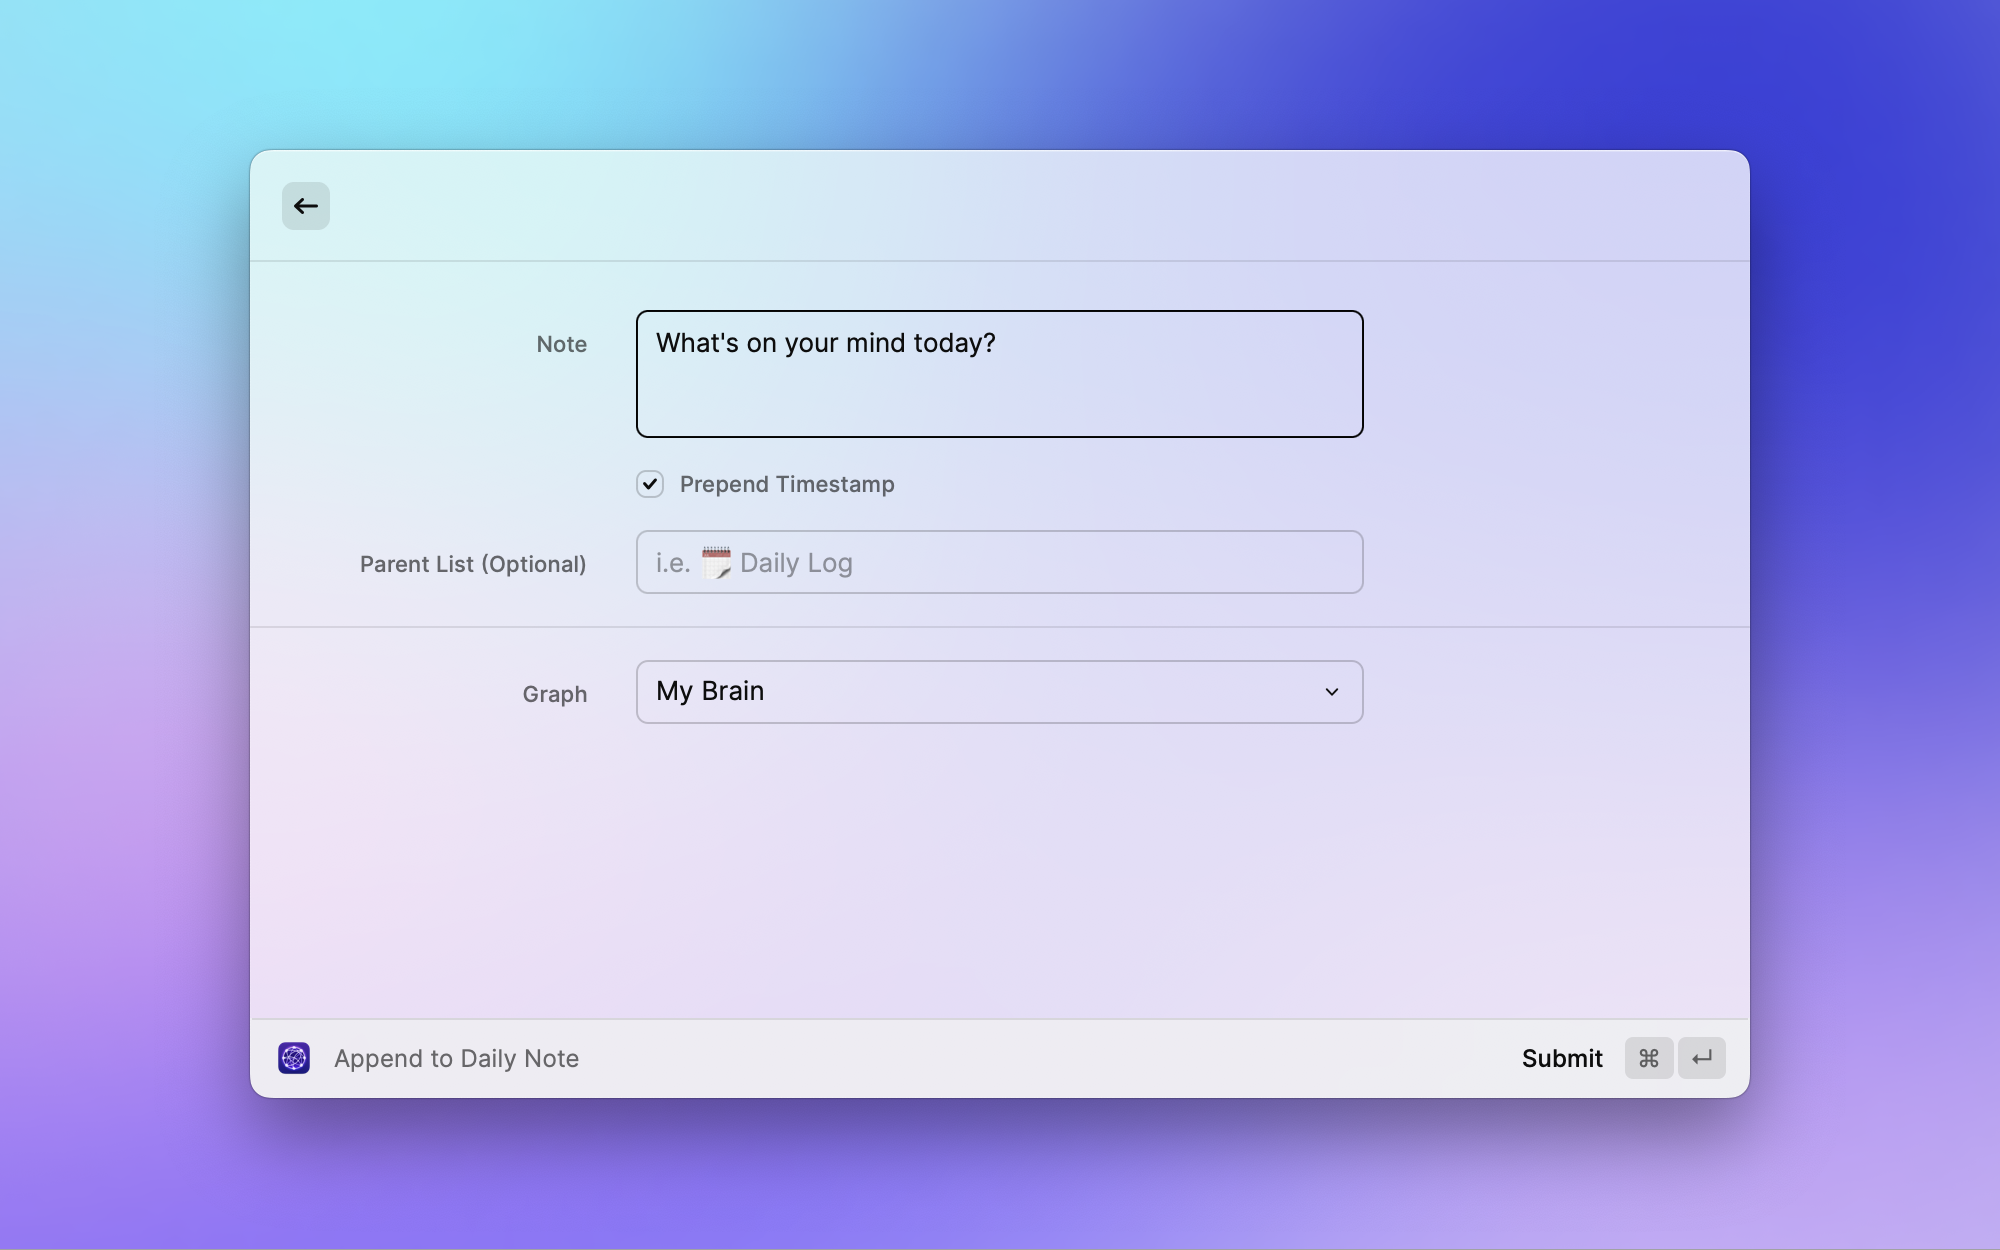
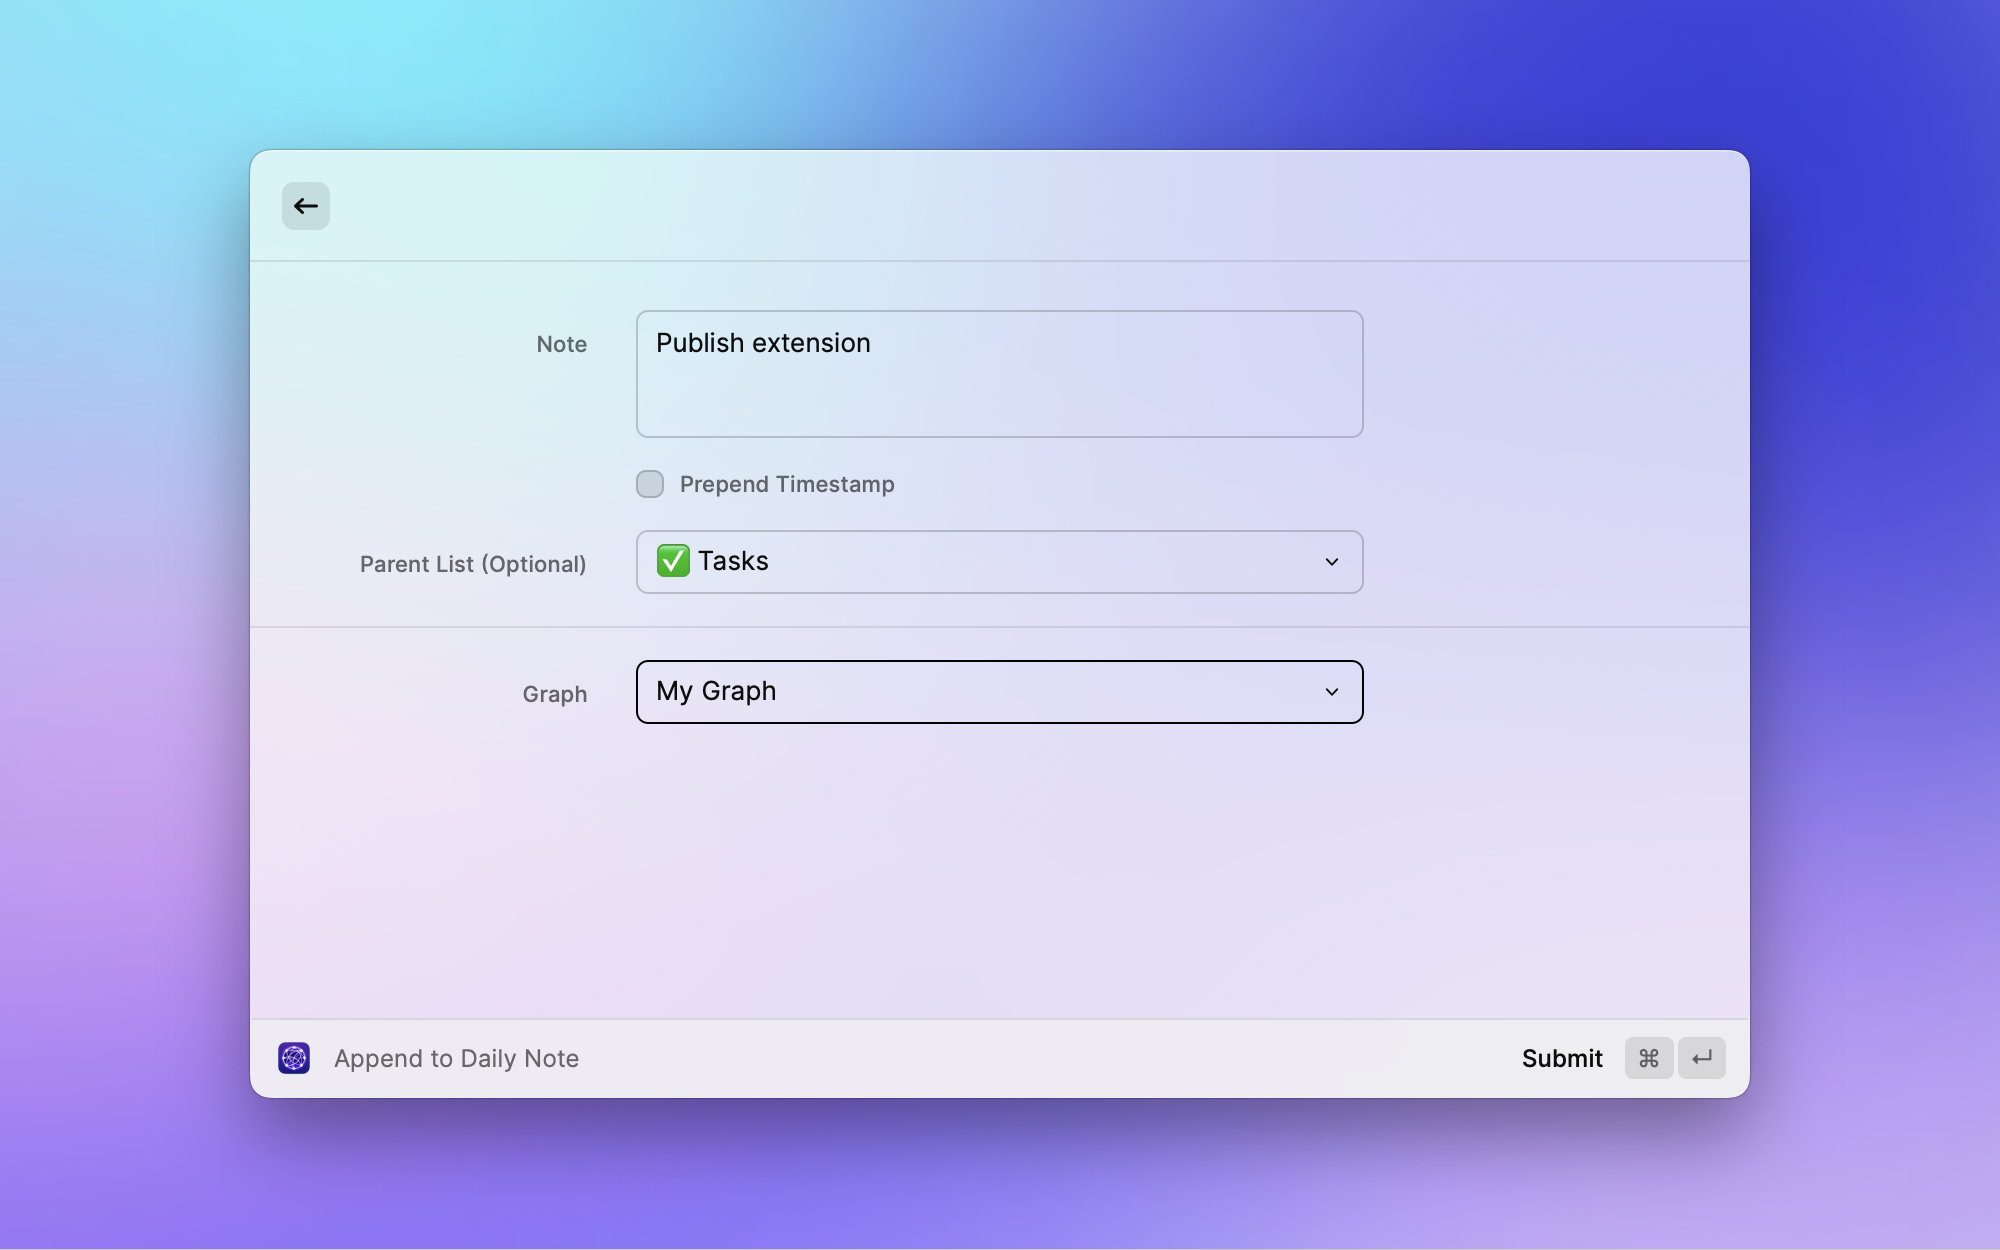
chore: update changelog
chore: add new metadata image

fix: image size

fix: image size (again)

fix: remove dud image

feat: add regex to parent list search on quick add

fix: lint

diff --git a/src/append.tsx b/src/append.tsx
@@ -11,7 +11,7 @@ import {
   showToast,
   Toast,
   LocalStorage,
-  getPreferenceValues
+  getPreferenceValues,
 } from "@raycast/api";
 import { FormValidation, useForm } from "@raycast/utils";
 import { useEffect, useState } from "react";
@@ -78,9 +78,9 @@ export default function Command() {
 
   const showTimestampFormat: boolean = itemProps.prependTimestamp.value ?? false;
 
-  const {parentLists = ""} = getPreferenceValues<ExtensionPreferences>()
+  const { parentLists = "" } = getPreferenceValues<ExtensionPreferences>();
 
-  const parentListOptions = parentLists.split(',').map((item) => item.trim());
+  const parentListOptions = parentLists.split(",").map((item) => item.trim());
 
   return (
     <Form
@@ -99,14 +99,12 @@ export default function Command() {
         </Form.Dropdown>
       ) : null}
       {parentListOptions.length > 0 ? (
-          <Form.Dropdown storeValue={true} title="Parent List (Optional)" {...itemProps.parentList}>
-            <Form.Dropdown.Item value="" title="-" />
-            {parentListOptions.map(opt => {
-              return (
-                  <Form.Dropdown.Item key={opt} value={opt} title={opt.replaceAll('[', '').replaceAll(']', '')} />
-              )
-            })}
-          </Form.Dropdown>
+        <Form.Dropdown storeValue={true} title="Parent List (Optional)" {...itemProps.parentList}>
+          <Form.Dropdown.Item value="" title="-" />
+          {parentListOptions.map((opt) => {
+            return <Form.Dropdown.Item key={opt} value={opt} title={opt.replaceAll("[", "").replaceAll("]", "")} />;
+          })}
+        </Form.Dropdown>
       ) : null}
       <Form.Separator />
       <Form.Dropdown {...itemProps.graphId} title="Graph" value={graphId} onChange={setGraphId}>

diff --git a/src/quickAppend.ts b/src/quickAppend.ts
@@ -5,18 +5,27 @@ import { getPreferenceValues, openExtensionPreferences, LaunchProps } from "@ray
 import { confirmAlert, showToast, Toast, closeMainWindow } from "@raycast/api";
 
 export default async (props: LaunchProps<{ arguments: Arguments.QuickAppend }>) => {
-  const preferences: Preferences.QuickAppend = getPreferenceValues();
+  const preferences: Preferences.QuickAppend & Preferences = getPreferenceValues();
 
   const toast = await showToast({
     style: Toast.Style.Animated,
     title: "Appending to Reflect Daily Note...",
   });
 
+  const searchString = props.arguments.list || "";
+
+  const parentLists: string[] = preferences.parentLists?.split(",").map((s) => s.trim()) || [];
+
+  const matchedLists = parentLists.find((list) => list.toLowerCase().search(searchString.toLowerCase()) !== -1);
+  const listName = searchString ? matchedLists?.split(",")[0] || preferences.listName : preferences.listName;
+
+  console.log("listName", listName);
+
   try {
     const authorizationToken = await authorize();
     const text = prependTimestampIfSelected(props.fallbackText || props.arguments.text, preferences);
 
-    await appendToDailyNote(authorizationToken, preferences.graphId, text, preferences.listName);
+    await appendToDailyNote(authorizationToken, preferences.graphId, text, listName);
 
     toast.hide();
   } catch (error) {

diff --git a/CHANGELOG.md b/CHANGELOG.md
@@ -1,5 +1,8 @@
 # Reflect Changelog
 
+## Multiple List Options - 2023-11-21
+- Add support for multiple list options in preferences
+
 ## [OAuth] - 2023-07-20
 
 - Use the native Reflect OAuth PKCE API
